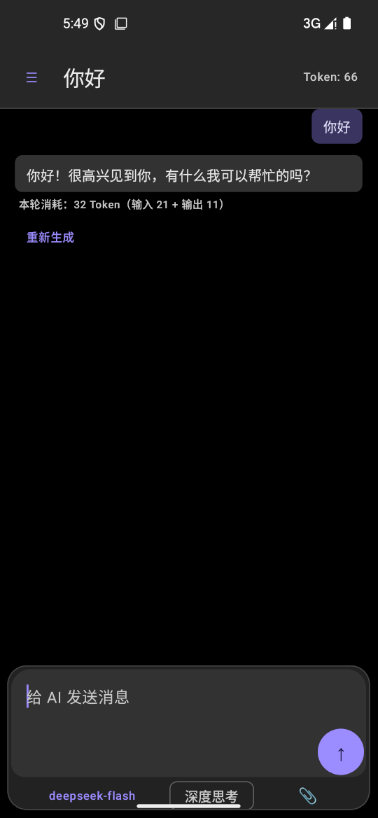
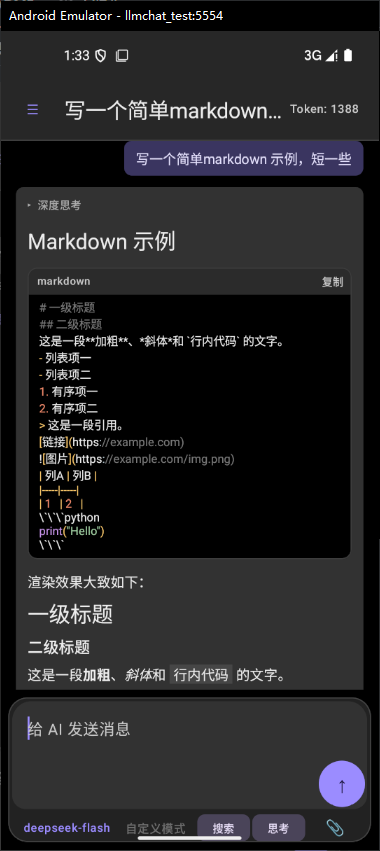
docs: refresh preview screenshots (chat + markdown side-by-side)

diff --git a/README.md b/README.md
@@ -42,7 +42,9 @@ LLMChatMobile 本身不提供 AI 服务，你需要一个 API Key。下面以 De
 
 ## 预览
 
-![聊天界面](screenshots/chat.png)
+| 聊天界面 | Markdown 渲染 |
+|---|---|
+| ![聊天界面](screenshots/chat.png) | ![Markdown 渲染](screenshots/markdown.png) |
 
 ## 开发记录
 
